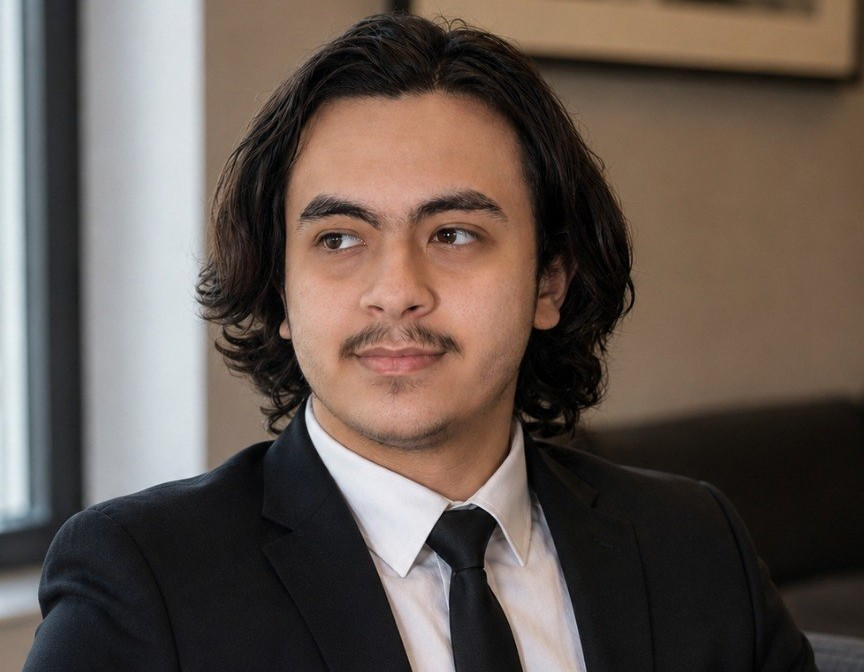
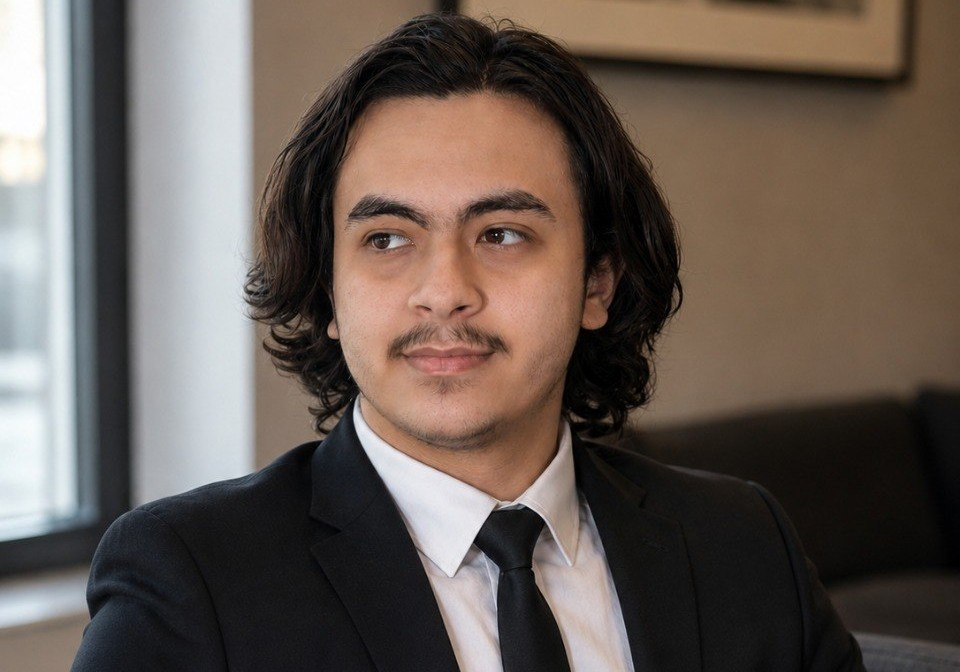
widest photo frame, full width, same vertical content

diff --git a/index.html b/index.html
@@ -65,7 +65,7 @@
         </p>
       </div>
       <div class="hero-art" id="heroArt">
-        <img class="portrait" src="assets/images/profile.jpg" alt="Portrait of Hashem Alkhaldy" width="864" height="672">
+        <img class="portrait" src="assets/images/profile.jpg" alt="Portrait of Hashem Alkhaldy" width="960" height="672">
       </div>
     </section>
 

diff --git a/styles.css b/styles.css
@@ -119,8 +119,8 @@ a:hover { color: var(--signal); }
 
 .hero-art { justify-self: end; text-align: center; will-change: transform; }
 .portrait {
-  width: min(400px, 82vw);
-  aspect-ratio: 9 / 7;
+  width: min(440px, 85vw);
+  aspect-ratio: 10 / 7;
   object-fit: cover;
   object-position: top;
   border-radius: 22px;
